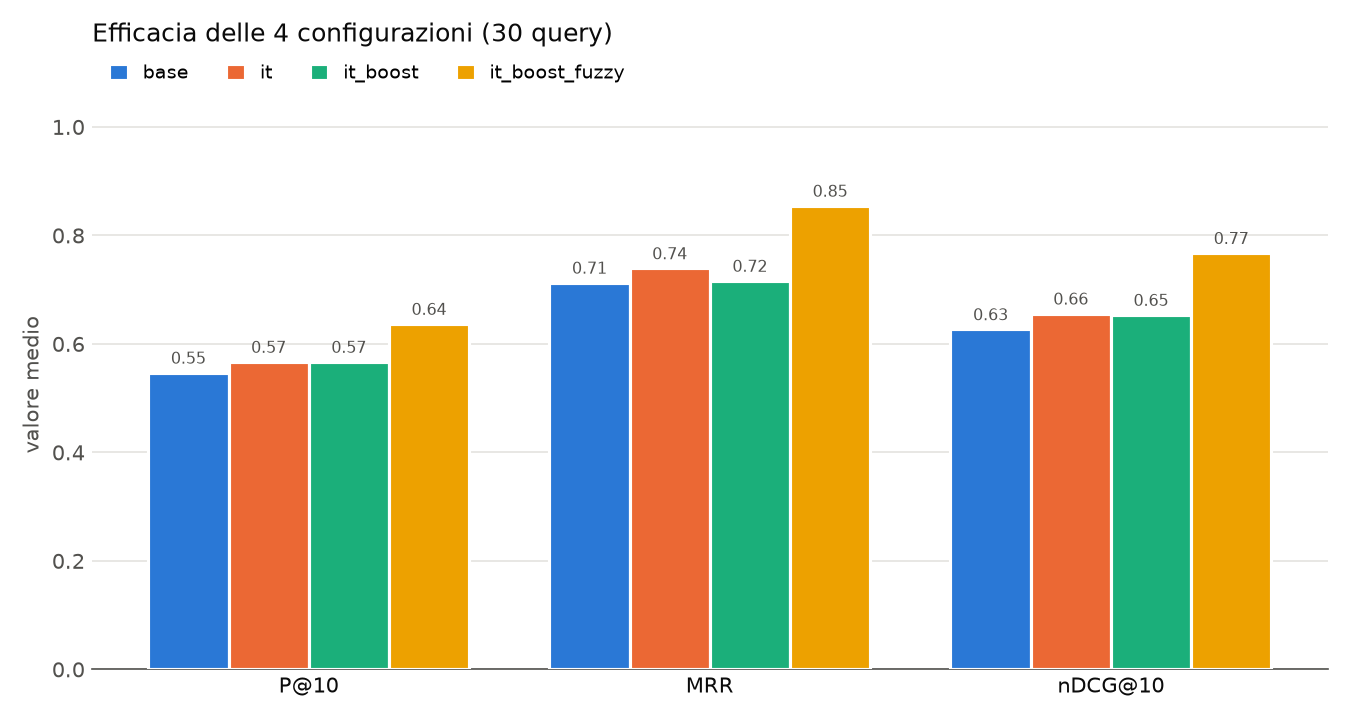
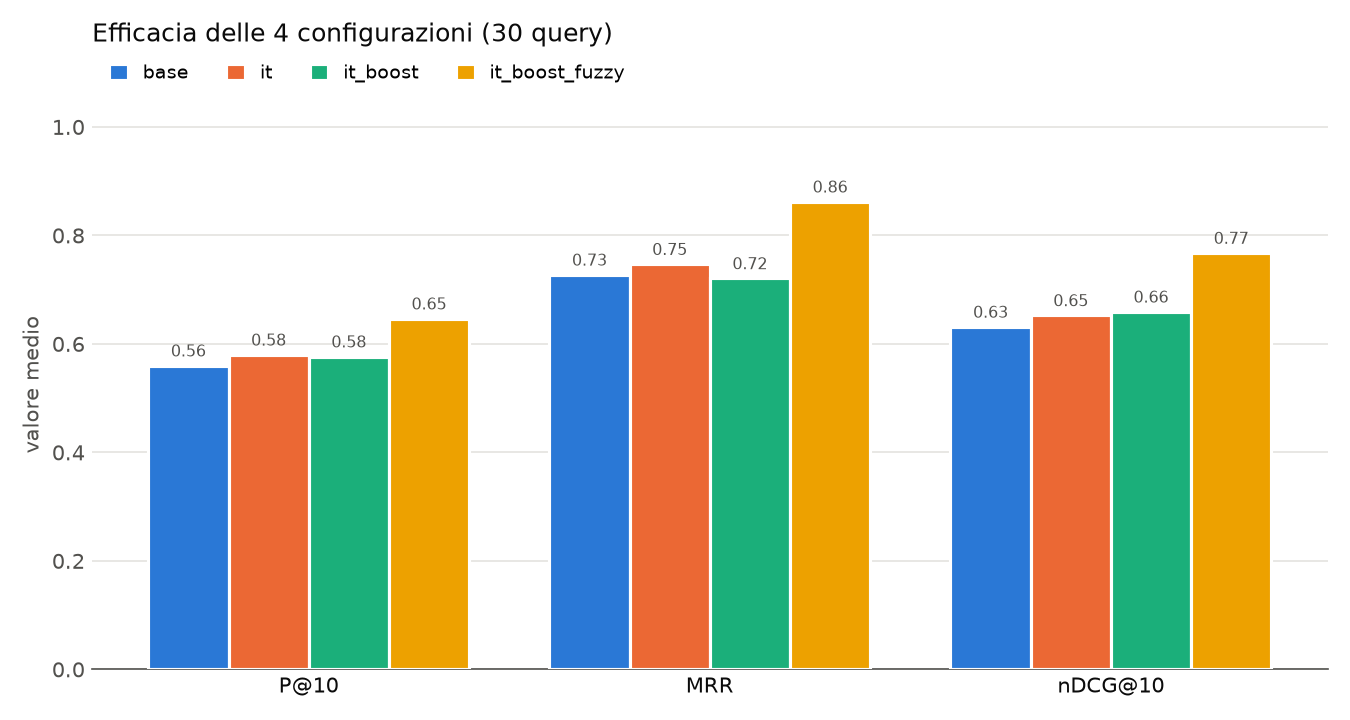
D: risultati finali (con i controlli di A e C)

diff --git a/eval/controllo_campione.py b/eval/controllo_campione.py
@@ -2,12 +2,14 @@
 
 Sceglie a caso N righe per query (seed fisso). Per ognuna mostra query, bisogno informativo, titolo ed estratto
 SENZA il giudizio dell'LLM, chiede il tuo valore (0/1/2) e solo dopo mostra quello dell'LLM.
-Alla fine calcola accordo e kappa di Cohen e salva il confronto in eval/giudizi_llm/controllo_D.csv.
+Alla fine calcola accordo e kappa di Cohen e salva il confronto in eval/giudizi_llm/controllo_<giudice>.csv.
 Nei disaccordi vale il tuo giudizio, che viene scritto in pool_D.csv.
 
 Uso (dalla radice del repo):
     python eval/controllo_campione.py            # 2 righe per query = 20 righe
     python eval/controllo_campione.py --n 1      # 1 riga per query = 10 righe
+    python eval/controllo_campione.py --pool eval/pools/pool_C.csv   # controllo di C (salva controllo_C.csv)
+    (--chi X forza il nome del giudice, come nella versione usata da A)
 """
 import argparse
 import csv
@@ -41,8 +43,9 @@ def main():
     ap.add_argument("--pool", default=EVAL_DIR / "pools" / "pool_D.csv")
     ap.add_argument("--n", type=int, default=2, help="righe per query")
     ap.add_argument("--seed", type=int, default=7)
-    ap.add_argument("--chi", default="D", help="chi fa il controllo (A, C o D): decide il nome del file di output")
+    ap.add_argument("--chi", default=None, help="chi fa il controllo (A, C o D); se manca si ricava dal nome del pool")
     args = ap.parse_args()
+    giudice = args.chi or Path(args.pool).stem.replace("pool_", "")      # pool_C.csv -> C
 
     pool = read_pool_csv(args.pool)
     per_query = {}
@@ -67,13 +70,13 @@ def main():
         llm.append(l)
         confronto.append({"query_id": r["query_id"], "doc_id": r["doc_id"], "umano": v, "llm": l})
         if v != l:                       # vale il giudizio umano
-            r["motivo"] = f"{r.get('motivo', '')} [corretto da {args.chi}: LLM aveva {l}]".strip()
+            r["motivo"] = f"{r.get('motivo', '')} [corretto da {giudice}: LLM aveva {l}]".strip()
             r["rilevanza"] = v
 
     n = len(umano)
     accordi = sum(x == y for x, y in zip(umano, llm))
     k = kappa_cohen(umano, llm)
-    out = EVAL_DIR / "giudizi_llm" / f"controllo_{args.chi}.csv"
+    out = EVAL_DIR / "giudizi_llm" / f"controllo_{giudice}.csv"
     out.parent.mkdir(exist_ok=True)
     with open(out, "w", encoding="utf-8", newline="") as f:
         w = csv.DictWriter(f, fieldnames=["query_id", "doc_id", "umano", "llm"], delimiter=";")
@@ -84,9 +87,9 @@ def main():
         w.writeheader()
         w.writerows(pool)
 
-    frase = (f"{args.chi} ha rigiudicato alla cieca {n} righe scelte a caso ({args.n} per query, seed {args.seed}), senza vedere "
+    frase = (f"{giudice} ha rigiudicato alla cieca {n} righe scelte a caso ({args.n} per query, seed {args.seed}), senza vedere "
              f"il giudizio dell'LLM: accordo {accordi}/{n} ({accordi / n:.0%}), kappa di Cohen {k:.2f}. "
-             f"Nei {n - accordi} casi di disaccordo vale il giudizio di {args.chi} (`giudizi_llm/controllo_{args.chi}.csv`).")
+             f"Nei {n - accordi} casi di disaccordo vale il giudizio di {giudice} (`giudizi_llm/{out.name}`).")
     md = EVAL_DIR / "GIUDICE_LLM.md"
     testo = md.read_text(encoding="utf-8")
     segnaposto = "D ha riletto `<numero>` righe scelte a caso e non era d'accordo con il giudice su `<numero>` di queste."

diff --git a/eval/ANALISI_ERRORI.md b/eval/ANALISI_ERRORI.md
@@ -3,30 +3,31 @@
 Le tabelle con le top-10 affiancate e i giudizi le genera `error_analysis.py` in `results/analisi_errori_<A>_vs_<B>.md`.
 Le cause, invece, sono scritte qui, perché i file generati vengono riscritti a ogni esecuzione.
 
-Numeri finali: **30 query, 433 giudizi** (pool di A, C e D, giudicati da un LLM con controllo alla cieca).
+Numeri finali: **30 query, 433 giudizi** (pool di A, C e D, giudicati da un LLM con controllo alla cieca; i
+disaccordi trovati nei controlli di A e C, 7 e 5, sono già corretti nei pool).
 
 | config | P@10 | MRR | nDCG@10 |
 |---|---|---|---|
-| base | 0,547 | 0,713 | 0,627 |
-| it | 0,567 | 0,739 | 0,656 |
-| it_boost | 0,567 | 0,716 | 0,653 |
-| it_boost_fuzzy | **0,637** | **0,854** | **0,767** |
+| base | 0,560 | 0,727 | 0,631 |
+| it | 0,580 | 0,747 | 0,653 |
+| it_boost | 0,577 | 0,721 | 0,659 |
+| it_boost_fuzzy | **0,647** | **0,862** | **0,768** |
 
 | passo | Δ nDCG@10 | query migliorate / peggiorate | p |
 |---|---|---|---|
-| base → it (+ ItalianAnalyzer) | +0,029 | 11 / 11 | 0,082 |
-| it → it_boost (+ boost sul titolo) | −0,002 | 16 / 9 | 0,963 |
-| it_boost → it_boost_fuzzy (+ fuzzy) | **+0,114** | 11 / 1 | **0,004** |
+| base → it (+ ItalianAnalyzer) | +0,021 | 10 / 13 | 0,106 |
+| it → it_boost (+ boost sul titolo) | +0,007 | 18 / 8 | 0,884 |
+| it_boost → it_boost_fuzzy (+ fuzzy) | **+0,108** | 11 / 1 | **0,008** |
 
 ## 1. Il boost sul titolo premia le parole generiche (it → it_boost)
 
-**Media quasi nulla, effetti opposti.** Il boost migliora 16 query e ne peggiora 9: la media non si muove (−0,002), ma
-per tipo di query sì.
+**Media quasi nulla, effetti opposti.** Il boost migliora 18 query e ne peggiora 8: la media quasi non si muove (+0,007),
+ma per tipo di query sì.
 
 | tipo | it | it_boost |
 |---|---|---|
-| persona/luogo (8) | 0,793 | **0,938** |
-| keyword (8) | 0,748 | **0,489** |
+| persona/luogo (8) | 0,793 | **0,929** |
+| keyword (8) | 0,740 | **0,538** |
 
 **Meccanismo.** La query è un OR di termini, e ogni termine viene cercato in `title^2` e in `text`. Un titolo corto
 con 1-2 parole generiche della query prende un punteggio alto: c'è il boost, e BM25 normalizza sulla lunghezza del
@@ -35,9 +36,8 @@ nel testo. Se la parola che distingue il bisogno compare raramente nei titoli, i
 
 | query | nDCG@10 it → it_boost | cosa succede |
 |---|---|---|
-| q04 "dimissioni del papa" | 0,832 → **0,000** | Salgono le dimissioni di Mbeki, Monti, Previti, Koizumi, Follini…: "dimissioni" nel titolo, del papa nessuna traccia. Nessuno dei 9 documenti nuovi è rilevante |
+| q04 "dimissioni del papa" | 0,795 → **0,000** | Salgono le dimissioni di Mbeki, Monti, Previti, Koizumi, Follini…: "dimissioni" nel titolo, del papa nessuna traccia. Nessuno dei 9 documenti nuovi è rilevante |
 | q06 "elezioni presidenziali americane" | 0,825 → 0,131 | Salgono le presidenziali di Polonia, Russia, Bolivia e Senegal. "Americane" nei titoli non compare (si scrive "USA"): vocabulary mismatch |
-| q01 "naufragio nave da crociera" | 0,922 → 0,617 | Salgono titoli con "naufragio" o "nave" che non riguardano navi da crociera |
 | q03 "incidente centrale nucleare" | 0,995 → 0,791 | Salgono "demolita la centrale nucleare", "incidente alla centrale idroelettrica", "centrale nucleare a rischio razzi" |
 
 **Conclusione.** Il boost sul titolo funziona quando la query è il nome di un'entità (persona/luogo) e peggiora quando
@@ -45,12 +45,12 @@ la query descrive un tema con parole comuni (keyword).
 
 ## 2. Il fuzzy: il miglioramento più forte, con un limite (it_boost → it_boost_fuzzy)
 
-- **Errori di battitura: nDCG@10 da 0,232 a 0,671.** Migliora 11 query e ne peggiora solo 1.
+- **Errori di battitura: nDCG@10 da 0,228 a 0,649.** Migliora 11 query e ne peggiora solo 1.
 
 | query | it_boost | it_boost_fuzzy |
 |---|---|---|
 | q28 "Wikipeida" | 0,00 (0 risultati) | **1,00** |
-| q29 "calciopolli Juventus" | 0,19 | **1,00** |
+| q29 "calciopolli Juventus" | 0,16 | **0,84** |
 | q26 "olimpiadi Pechinno" | 0,00 | **0,80** |
 | q24 "terremotto Haiti" | 0,66 | 0,89 |
 | q27 "mondiali di calcio Sudafrca" | 0,43 | 0,66 |
@@ -87,15 +87,15 @@ Nel corpus ci sono 3 articoli che contengono "brexit". Il più rilevante è *Il 
 
 ## 4. ItalianAnalyzer (base → it): un piccolo guadagno, non significativo
 
-+0,029 di nDCG@10 (p = 0,082), con 11 query migliorate e 11 peggiorate. I cali più grandi sono piccoli e riguardano due
-frasi esatte (q20 "Giro d'Italia" −0,077, q18 "Stazione Spaziale Internazionale" −0,056): in entrambe cambiano solo
++0,021 di nDCG@10 (p = 0,106), con 10 query migliorate e 13 peggiorate. I cali più grandi sono piccoli e riguardano due
+frasi esatte (q18 "Stazione Spaziale Internazionale" −0,056, q20 "Giro d'Italia" −0,045): in entrambe cambiano solo
 1-2 documenti in classifica. Il vantaggio concreto, oltre alla qualità, è un indice più piccolo del 10%.
 
 ## 5. Lezioni per la valutazione
 
 - **La media nasconde effetti di segno opposto.** Il boost ha una media nulla ma cambia molto per tipo di query: per
   questo riportiamo i risultati anche per tipo.
-- **Con 30 query solo un effetto grande è significativo.** Il fuzzy lo è (p = 0,004), ItalianAnalyzer e boost no.
+- **Con 30 query solo un effetto grande è significativo.** Il fuzzy lo è (p = 0,008), ItalianAnalyzer e boost no.
 - **Le query senza documenti rilevanti valgono 0 per tutti** e non distinguono le configurazioni (q30).
 
 ## Sviluppi possibili (non applicati: il motore è congelato e regolarlo sulle query di test sarebbe overfitting)

diff --git a/eval/results/analisi_errori_it_vs_it_boost.md b/eval/results/analisi_errori_it_vs_it_boost.md
@@ -4,7 +4,7 @@ Rilevanza tra parentesi quadre (2 molto, 1 parz., 0 non rilevante, ? non giudica
 
 ## q04 — `dimissioni del papa` (keyword)
 
-nDCG@10: it = 0.832, it_boost = 0.000 (Δ -0.832)
+nDCG@10: it = 0.795, it_boost = 0.000 (Δ -0.795)
 
 | # | it | it_boost |
 |---|---|---|
@@ -14,10 +14,10 @@ nDCG@10: it = 0.832, it_boost = 0.000 (Δ -0.832)
 | 4 | [0] Berlusconi al Senato | [0] Giappone dimissioni del governo di Koizumi 2005 |
 | 5 | [0] Blair da Benedetto XVI, forse annuncio della conversione | [0] Dimissioni Follini da segretario UDC 2005 |
 | 6 | [2] Benedetto XVI annuncia il suo ritiro dal pontificato | [0] Papa Francesco: presto una donna a capo di un dicastero |
-| 7 | [0] Polonia: si è dimesso l'arcivescovo Wielgus | [0] Regno Unito dimissioni del ministro del Lavoro 2005 |
+| 7 | [1] Polonia: si è dimesso l'arcivescovo Wielgus | [0] Regno Unito dimissioni del ministro del Lavoro 2005 |
 | 8 | [0] Berlusconi si dissocia dalla Lega sull'Euro | [0] OMC: il direttore generale annuncia le dimissioni |
 | 9 | [0] Papa Benedetto XVI in Turchia | [0] Il Papa si aggrava |
-| 10 | [0] Una fedele strattona il Papa, che reagisce | [0] Peggiorate le condizioni del Papa |
+| 10 | [1] Una fedele strattona il Papa, che reagisce | [0] Peggiorate le condizioni del Papa |
 
 Entrati con it_boost: 9 documenti, di cui rilevanti (>=1): 0.
 
@@ -44,23 +44,23 @@ Entrati con it_boost: 6 documenti, di cui rilevanti (>=1): 1.
 
 Causa (da scrivere a mano dopo aver guardato la tabella): ...
 
-## q01 — `naufragio nave da crociera` (keyword)
+## q03 — `incidente centrale nucleare` (keyword)
 
-nDCG@10: it = 0.922, it_boost = 0.617 (Δ -0.304)
+nDCG@10: it = 0.995, it_boost = 0.791 (Δ -0.203)
 
 | # | it | it_boost |
 |---|---|---|
-| 1 | [2] Naufragio della Costa Concordia | [2] Naufragio della Costa Concordia |
-| 2 | [2] Costa Concordia: cominciano i lavori di rimozione | [0] Naufraga peschereccio di Mazara del Vallo |
-| 3 | [0] La Spezia: affonda nave cargo vicino al porto | [0] Pakistan test missile da crociera 2005 |
-| 4 | [0] Incidente nel golfo di Oman: nave iraniana affondata per errore | [0] La Spezia: affonda nave cargo vicino al porto |
-| 5 | [0] Italia: Mazara del Vallo, ritrovato nella Thetis il corpo del ricercatore russo disperso nel naufragio | [0] Italia: Mazara del Vallo, ritrovato nella Thetis il corpo del ricercatore russo disperso nel naufragio |
-| 6 | [0] Ritrovato l'HMS Sidney | [0] Incidente nel golfo di Oman: nave iraniana affondata per errore |
-| 7 | [2] Costa Concordia: rotazione ultimata, nave in asse | [0] Naufragio nel Mar d'Azov: 2 morti e 8 dispersi |
-| 8 | [0] La portacontainer "Napoli" si incaglia nella Manica | [2] Costa Concordia: rotazione ultimata, nave in asse |
-| 9 | [0] Naufraga peschereccio di Mazara del Vallo | [0] Macedonia: naufragio, 15 i morti accertati |
-| 10 | [0] Naufragio nel Mar d'Azov: 2 morti e 8 dispersi | [0] Tanzania: naufragio nel lago Vittoria provoca oltre 130 morti |
+| 1 | [2] Terzo incidente in poche settimane alla centrale nucleare di Tricastin | [2] Terzo incidente in poche settimane alla centrale nucleare di Tricastin |
+| 2 | [2] Incidente nucleare in una centrale in Francia: acqua contaminata da uranio riversata nei fiumi | [2] Incidente nucleare in una centrale in Francia: acqua contaminata da uranio riversata nei fiumi |
+| 3 | [2] Due fuoriuscite di liquido da centrali nucleari in due settimane generano polemiche sulla sicurezza in Francia | [2] Esplosione nella centrale nucleare di Fukushima |
+| 4 | [2] Francia, esplosione in sito di stoccaggio delle scorie nucleari | [2] Liquido fuoriesce da centrale nucleare slovena |
+| 5 | [2] Fukushima: livelli di radioattività estremamente elevati. Secondo Greenpeace è un incidente di livello 7 | [0] Germania: demolita "di nascosto" la centrale nucleare di Filisburgo |
+| 6 | [2] Liquido fuoriesce da centrale nucleare slovena | [1] 8 centrali nucleari francesi non superano test |
+| 7 | [1] Nucleare: la TV svizzera censura i Simpson | [2] Due fuoriuscite di liquido da centrali nucleari in due settimane generano polemiche sulla sicurezza in Francia |
+| 8 | [2] Esplosione nella centrale nucleare di Fukushima | [0] Incidente alla centrale idroelettrica russa di Sajano-Šušenskaja |
+| 9 | [1] Doppio sisma in Giappone: morti, feriti, fughe radioattive | [0] Striscia di Gaza: Israele lancia volantini. Centrale nucleare a rischio razzi |
+| 10 | [2] A 3 mesi dal disastro di Fukushima situazione ancora "molto seria" secondo IAEA. In Europa, Germania e Svizzera abbandonano il nucleare | [2] Francia, esplosione in sito di stoccaggio delle scorie nucleari |
 
-Entrati con it_boost: 3 documenti, di cui rilevanti (>=1): 0.
+Entrati con it_boost: 4 documenti, di cui rilevanti (>=1): 1.
 
 Causa (da scrivere a mano dopo aver guardato la tabella): ...

diff --git a/eval/GIUDICE_LLM.md b/eval/GIUDICE_LLM.md
@@ -9,8 +9,8 @@ non sapeva nulla del sistema; quelli di A e C conoscevano il progetto.
 | pool | righe | 0 | 1 | 2 | controllo alla cieca |
 |---|---|---|---|---|---|
 | D | 149 | 60 | 25 | 64 | accordo 18/20 (90%), kappa 0,84 |
-| A | 146 | 81 | 8 | 57 | in attesa (`giudizi_llm/controllo_A.csv`) |
-| C | 138 | 43 | 29 | 66 | in attesa (`giudizi_llm/controllo_C.csv`) |
+| A | 146 | 75 | 11 | 60 | accordo 13/20 (65%), kappa 0,45 |
+| C | 138 | 44 | 31 | 63 | accordo 15/20 (75%), kappa 0,61 |
 
 ## Pool D: come è stato fatto
 
@@ -75,30 +75,38 @@ D ha rigiudicato alla cieca 20 righe scelte a caso (2 per query, seed 7), senza 
   sapeva quale configurazione avesse trovato ogni documento.
 - **Risposte grezze:** in `giudizi_llm/risposta_pool_A.txt`, con il motivo di ogni riga. Sono state applicate con
   `applica_giudizi_llm.py`.
-- **Risultato:** 146 righe giudicate su 146 (0 = 81, 1 = 8, 2 = 57).
+- **Risultato:** 146 righe giudicate su 146. Dopo il controllo: 0 = 75, 1 = 11, 2 = 60 (prima: 81, 8, 57).
 - **Casi al limite segnalati da A:**
   - q13 "L'Aquila": i risultati di rugby con la sola squadra della città valgono 0;
   - q04: le possibili dimissioni di papa Francesco valgono 0, perché il bisogno informativo riguarda Benedetto XVI;
   - q19: i necrologi di Peres e Gorbaciov, dove il Nobel è solo citato, valgono 0.
-- **Controllo umano alla cieca:** in attesa di A (`python eval/controllo_campione.py --pool eval/pools/pool_A.csv`,
-  che salva `giudizi_llm/controllo_A.csv`).
+- **Controllo umano alla cieca:** A ha rigiudicato alla cieca 20 righe: accordo 13/20 (65%), kappa di Cohen 0,45
+  (accordo moderato). Nei 7 casi di disaccordo vale il giudizio di A, già scritto in `pools/pool_A.csv`
+  (`giudizi_llm/controllo_A.csv`).
 
 ## Pool C
 
 - **Giudice:** un LLM che conosceva il progetto, come quello di A. Il pool era cieco.
 - **Risposte grezze:** in `giudizi_llm/risposta_pool_C.txt`, con il motivo di ogni riga. Sono state applicate con
   `applica_giudizi_llm.py`.
-- **Risultato:** 138 righe giudicate su 138 (0 = 43, 1 = 29, 2 = 66).
-- **Controllo umano alla cieca:** in attesa di C (`python eval/controllo_campione.py --pool eval/pools/pool_C.csv`,
-  che salva `giudizi_llm/controllo_C.csv`).
+- **Risultato:** 138 righe giudicate su 138. Dopo il controllo: 0 = 44, 1 = 31, 2 = 63 (prima: 43, 29, 66).
+- **Controllo umano alla cieca:** C ha rigiudicato alla cieca 20 righe (2 per query, seed 7): accordo 15/20 (75%),
+  kappa di Cohen 0,61 (accordo sostanziale). Nei 5 disaccordi vale il giudizio di C, già scritto in `pools/pool_C.csv`
+  (`giudizi_llm/controllo_C.csv`). In 4 casi su 5 l'LLM era stato più generoso di C, e 4 disaccordi su 5 sono tra
+  valori vicini (1 contro 2, 0 contro 1). L'unico 0 contro 2 è q05 (subprime 2007, letto da C in senso stretto
+  rispetto a "in particolare 2008").
 
 ## Limiti
 
 - **Giudici diversi per pool diversi.** Il giudice di D non sapeva nulla del sistema, quelli di A e C conoscevano il progetto.
   Il confronto tra le configurazioni resta equo, perché ogni query ha un solo giudice per tutte e 4 le configurazioni
   e il pool è cieco. I confronti tra tipi di query, invece, possono risentire del giudice.
-- **I giudici usano la scala in modo diverso.** Il valore 1 (parzialmente rilevante) è il 5% dei giudizi nel pool A
-  (8 su 146), il 17% nel pool D (25 su 149) e il 21% nel pool C (29 su 138): il giudice di A è quasi binario. Questo
+- **I giudici usano la scala in modo diverso.** Prima del controllo il valore 1 (parzialmente rilevante) era il 5% dei
+  giudizi nel pool A (8 su 146), contro il 17% nel pool D (25 su 149) e il 21% nel pool C (29 su 138): il giudice di A
+  era quasi binario.
+- **L'accordo con la persona varia da pool a pool:** kappa 0,84 per D, 0,61 per C, 0,45 per A (da sostanziale a
+  moderato). L'LLM non sbaglia sempre nella stessa direzione: nel pool A era più severo della persona, nel pool C più
+  generoso. Gli errori trovati nei campioni sono stati corretti, quelli fuori dai campioni no. Questo
   pesa poco su P@10 e MRR (dove 1 e 2 contano allo stesso modo) e di più su nDCG@10.
 - **Nessun giudizio umano completo.** Il controllo alla cieca su un campione misura quanto l'LLM è d'accordo con una
   persona, ma non sostituisce un giudizio umano su tutto il pool.

diff --git a/eval/results/analisi_errori_base_vs_it.md b/eval/results/analisi_errori_base_vs_it.md
@@ -2,27 +2,6 @@
 
 Rilevanza tra parentesi quadre (2 molto, 1 parz., 0 non rilevante, ? non giudicato).
 
-## q20 — `"Giro d'Italia"` (frase)
-
-nDCG@10: base = 0.933, it = 0.857 (Δ -0.077)
-
-| # | base | it |
-|---|---|---|
-| 1 | [2] Giro d'Italia: tappa 19 accorciata per maltempo, si partirà da Abbiategrasso | [2] Giro d'Italia: tappa 19 accorciata per maltempo, si partirà da Abbiategrasso |
-| 2 | [2] Giro d'Italia: crono a squadre a Ischia | [2] Giro d'Italia: crono a squadre a Ischia |
-| 3 | [2] Giro d'Italia 2007: ventesima tappa | [2] Giro d'Italia 2007: ventesima tappa |
-| 4 | [2] Giro d'Italia 2008: prima tappa | [2] Giro d'Italia 2008: prima tappa |
-| 5 | [2] Giro d'Italia 2007: tredicesima tappa | [2] Giro d'Italia 2007: tredicesima tappa |
-| 6 | [2] Giro d'Italia 2006: ventunesima tappa | [0] Il 2 luglio partirà il Tour de France |
-| 7 | [2] Giro d'Italia 2006: prima tappa | [2] Giro d'Italia 2006: ventunesima tappa |
-| 8 | [1] È morto l'ex ciclista Giordano Cottur | [2] Giro d'Italia 2006: prima tappa |
-| 9 | [2] Giro d'Italia 2008: ventunesima tappa | [1] È morto l'ex ciclista Giordano Cottur |
-| 10 | [1] Ivan Basso confessa l'uso di sostanze dopanti | [1] Ciclismo: è morto Charly Gaul |
-
-Entrati con it: 2 documenti, di cui rilevanti (>=1): 1.
-
-Causa (da scrivere a mano dopo aver guardato la tabella): ...
-
 ## q18 — `"Stazione Spaziale Internazionale"` (frase)
 
 nDCG@10: base = 0.968, it = 0.912 (Δ -0.056)
@@ -41,6 +20,27 @@ nDCG@10: base = 0.968, it = 0.912 (Δ -0.056)
 | 10 | [1] NASA: rinviato il lancio di Crew Dragon | [0] Iseo al buio per M'illumino di meno |
 
 Entrati con it: 1 documenti, di cui rilevanti (>=1): 0.
+
+Causa (da scrivere a mano dopo aver guardato la tabella): ...
+
+## q20 — `"Giro d'Italia"` (frase)
+
+nDCG@10: base = 0.902, it = 0.857 (Δ -0.045)
+
+| # | base | it |
+|---|---|---|
+| 1 | [2] Giro d'Italia: tappa 19 accorciata per maltempo, si partirà da Abbiategrasso | [2] Giro d'Italia: tappa 19 accorciata per maltempo, si partirà da Abbiategrasso |
+| 2 | [2] Giro d'Italia: crono a squadre a Ischia | [2] Giro d'Italia: crono a squadre a Ischia |
+| 3 | [2] Giro d'Italia 2007: ventesima tappa | [2] Giro d'Italia 2007: ventesima tappa |
+| 4 | [2] Giro d'Italia 2008: prima tappa | [2] Giro d'Italia 2008: prima tappa |
+| 5 | [2] Giro d'Italia 2007: tredicesima tappa | [2] Giro d'Italia 2007: tredicesima tappa |
+| 6 | [2] Giro d'Italia 2006: ventunesima tappa | [0] Il 2 luglio partirà il Tour de France |
+| 7 | [2] Giro d'Italia 2006: prima tappa | [2] Giro d'Italia 2006: ventunesima tappa |
+| 8 | [1] È morto l'ex ciclista Giordano Cottur | [2] Giro d'Italia 2006: prima tappa |
+| 9 | [2] Giro d'Italia 2008: ventunesima tappa | [1] È morto l'ex ciclista Giordano Cottur |
+| 10 | [0] Ivan Basso confessa l'uso di sostanze dopanti | [1] Ciclismo: è morto Charly Gaul |
+
+Entrati con it: 2 documenti, di cui rilevanti (>=1): 1.
 
 Causa (da scrivere a mano dopo aver guardato la tabella): ...
 

diff --git a/eval/results/risultati.md b/eval/results/risultati.md
@@ -6,28 +6,28 @@
 
 | config | P@10 | MRR | nDCG@10 | judged@10 |
 |---|---|---|---|---|
-| base | 0.547 | 0.713 | 0.627 | 1.000 |
-| it | 0.567 | 0.739 | 0.656 | 1.000 |
-| it_boost | 0.567 | 0.716 | 0.653 | 1.000 |
-| it_boost_fuzzy | 0.637 | 0.854 | 0.767 | 1.000 |
+| base | 0.560 | 0.727 | 0.631 | 1.000 |
+| it | 0.580 | 0.747 | 0.653 | 1.000 |
+| it_boost | 0.577 | 0.721 | 0.659 | 1.000 |
+| it_boost_fuzzy | 0.647 | 0.862 | 0.768 | 1.000 |
 
 ## nDCG@10 per tipo di query (tra parentesi il numero di query)
 
 | tipo | base | it | it_boost | it_boost_fuzzy |
 |---|---|---|---|---|
-| keyword (8) | 0.702 | 0.748 | 0.489 | 0.535 |
-| persona/luogo (8) | 0.752 | 0.793 | 0.938 | 0.935 |
-| frase (7) | 0.908 | 0.917 | 0.937 | 0.937 |
-| errore_battitura (7) | 0.117 | 0.132 | 0.232 | 0.671 |
+| keyword (8) | 0.705 | 0.740 | 0.538 | 0.579 |
+| persona/luogo (8) | 0.760 | 0.793 | 0.929 | 0.926 |
+| frase (7) | 0.899 | 0.898 | 0.921 | 0.921 |
+| errore_battitura (7) | 0.133 | 0.147 | 0.228 | 0.649 |
 
 ## P@10 per tipo di query
 
 | tipo | base | it | it_boost | it_boost_fuzzy |
 |---|---|---|---|---|
-| keyword (8) | 0.438 | 0.500 | 0.400 | 0.412 |
-| persona/luogo (8) | 0.787 | 0.812 | 0.850 | 0.850 |
-| frase (7) | 0.857 | 0.829 | 0.843 | 0.843 |
-| errore_battitura (7) | 0.086 | 0.100 | 0.157 | 0.443 |
+| keyword (8) | 0.475 | 0.525 | 0.425 | 0.438 |
+| persona/luogo (8) | 0.800 | 0.825 | 0.863 | 0.863 |
+| frase (7) | 0.843 | 0.829 | 0.843 | 0.843 |
+| errore_battitura (7) | 0.100 | 0.114 | 0.157 | 0.443 |
 
 ## Ogni configurazione contro la precedente
 
@@ -35,11 +35,11 @@
 
 | confronto | metrica | Δ | migl./pegg./inv. | p |
 |---|---|---|---|---|
-| base → it | nDCG@10 | +0.029 | 11/11/8 | 0.082 |
-| base → it | P@10 | +0.020 | 5/2/23 | 0.223 |
-| it → it_boost | nDCG@10 | -0.002 | 16/9/5 | 0.963 |
-| it → it_boost | P@10 | +0.000 | 8/5/17 | 1.000 |
-| it_boost → it_boost_fuzzy | nDCG@10 | +0.114 | 11/1/18 | 0.004 * |
+| base → it | nDCG@10 | +0.021 | 10/13/7 | 0.106 |
+| base → it | P@10 | +0.020 | 5/1/24 | 0.159 |
+| it → it_boost | nDCG@10 | +0.007 | 18/8/4 | 0.884 |
+| it → it_boost | P@10 | -0.003 | 8/4/18 | 1.000 |
+| it_boost → it_boost_fuzzy | nDCG@10 | +0.108 | 11/1/18 | 0.008 * |
 | it_boost → it_boost_fuzzy | P@10 | +0.070 | 5/0/25 | 0.065 |
 
 Query senza alcun documento rilevante nel pool (nDCG = 0 per tutte le config): q30

diff --git a/docs/DECISIONI.md b/docs/DECISIONI.md
@@ -132,4 +132,5 @@ Tempi di risposta dell'API (`perf/benchmark_api.py`, le 30 query di `eval/querie
 - **Strategia di test a livelli** (`eval/STRATEGIA_TEST.md`). Ogni livello risponde a una domanda diversa: i dati sono riproducibili? le metriche sono giuste? l'API rispetta il contratto? le query note funzionano? quanto costa ogni configurazione? quale configurazione dà i risultati migliori? I primi cinque livelli si rilanciano con un comando; l'ultimo richiede giudizi umani.
 - **Riproducibilità come test.** Il JSONL è stato rigenerato dal dump su una macchina diversa da quella di A: 10.914 articoli, lo stesso numero indicizzato da B. Il risultato non dipende quindi dall'ambiente di chi l'ha prodotto.
 - **Prestazioni misurate sulle stesse 30 query della valutazione**, così costo ed efficacia si confrontano sulle stesse richieste. Il fuzzy costa circa 7 volte di più (13,6 contro 1,9 ms di media): un prezzo che deve essere giustificato da un guadagno sulle query con errori di battitura.
-- **Giudici.** Le query di A e C sono giudicate a mano. Le 10 query di D sono giudicate da un LLM (LLM-as-a-judge) in una conversazione separata, senza informazioni sul sistema, con un prompt fisso salvato in `eval/GIUDICE_LLM.md` e un controllo a campione di D. Il confronto tra configurazioni resta equo: ogni query ha un solo giudice per tutte e 4 le configurazioni e il pool è cieco.
+- **Giudici.** Tutti e tre i pool sono giudicati da un LLM (LLM-as-a-judge) con un prompt fisso (`eval/GIUDICE_LLM.md`) e un controllo umano alla cieca su 20 righe per pool: kappa D 0,84, C 0,61, A 0,45; i disaccordi trovati sono corretti nei pool. Il giudice di D non sapeva nulla del sistema, quelli di A e C conoscevano il progetto. Ogni query ha un solo giudice per tutte e 4 le configurazioni e il pool è cieco, quindi il confronto tra configurazioni resta equo.
+- **Risultati (30 query, 433 giudizi).** nDCG@10: base 0,631, it 0,653, it_boost 0,659, it_boost_fuzzy 0,768. Solo il fuzzy migliora in modo significativo (+0,108, p = 0,008). Il boost sul titolo ha media quasi nulla ma effetti opposti: persona/luogo 0,79 → 0,93, keyword 0,74 → 0,54. Dettagli e cause in `eval/ANALISI_ERRORI.md`.

diff --git a/eval/STRATEGIA_TEST.md b/eval/STRATEGIA_TEST.md
@@ -10,7 +10,7 @@ Ogni livello risponde a una domanda diversa. I livelli 1-5 sono automatici e si 
 | 3 | Contratto dell'API e integrazione | L'API rispetta il contratto 3 e gestisce gli errori? | C | `cd search && mvn test` (JUnit) | **7/7 superati**: formato e paginazione, valori di default, 400 su parametri non validi, 500 senza dettagli interni, 404, pagina web, integrazione con un mini-indice Lucene reale (boost, fuzzy, sintassi rotta) |
 | 4 | Query note (known-item) | Il documento atteso finisce in cima? | B | `cd search && mvn compile exec:java` | **5/5 al rank 1**: stemming, boost del titolo, frase esatta, notizia specifica, errore di battitura |
 | 5 | Prestazioni | Quanto costa ogni configurazione? | A (misure ufficiali), D (replica su un'altra macchina) | `python perf/benchmark_api.py --queries eval/queries.tsv` | Vedi le tabelle qui sotto. 0 errori |
-| 6 | Efficacia | Quale configurazione dà risultati migliori, e su quali query? | D (giudizi LLM sui pool di A, C, D, controllati alla cieca) | `eval/pool.py`, poi `build_qrels.py`, poi `evaluate.py` | **30 query, 433 giudizi.** nDCG@10: base 0,627, it 0,656, it_boost 0,653, it_boost_fuzzy **0,767**. Solo il fuzzy migliora in modo significativo (+0,114, p = 0,004). Dettagli in `results/risultati.md` |
+| 6 | Efficacia | Quale configurazione dà risultati migliori, e su quali query? | D (giudizi LLM sui pool di A, C, D, controllati alla cieca) | `eval/pool.py`, poi `build_qrels.py`, poi `evaluate.py` | **30 query, 433 giudizi.** nDCG@10: base 0,631, it 0,653, it_boost 0,659, it_boost_fuzzy **0,768**. Solo il fuzzy migliora in modo significativo (+0,108, p = 0,008). Dettagli in `results/risultati.md` |
 
 ## Prestazioni (livello 5)
 
